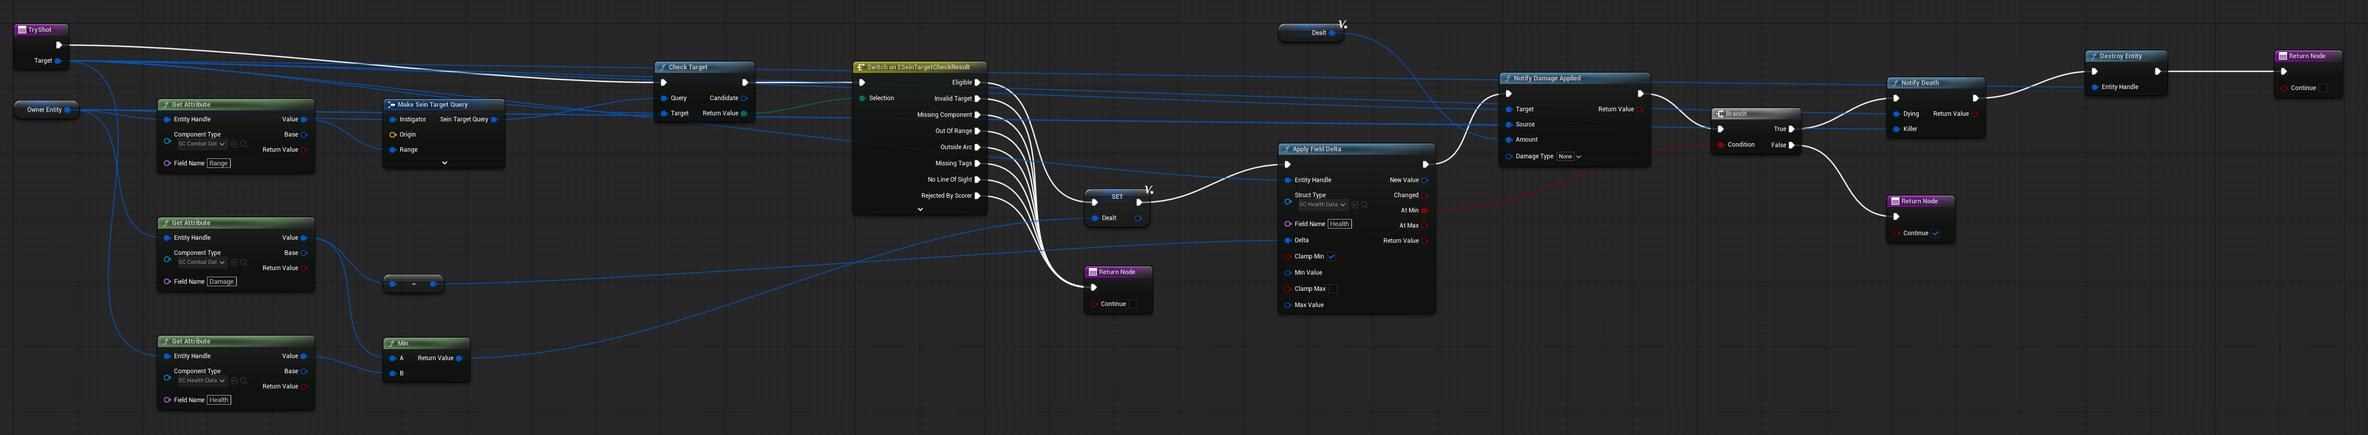
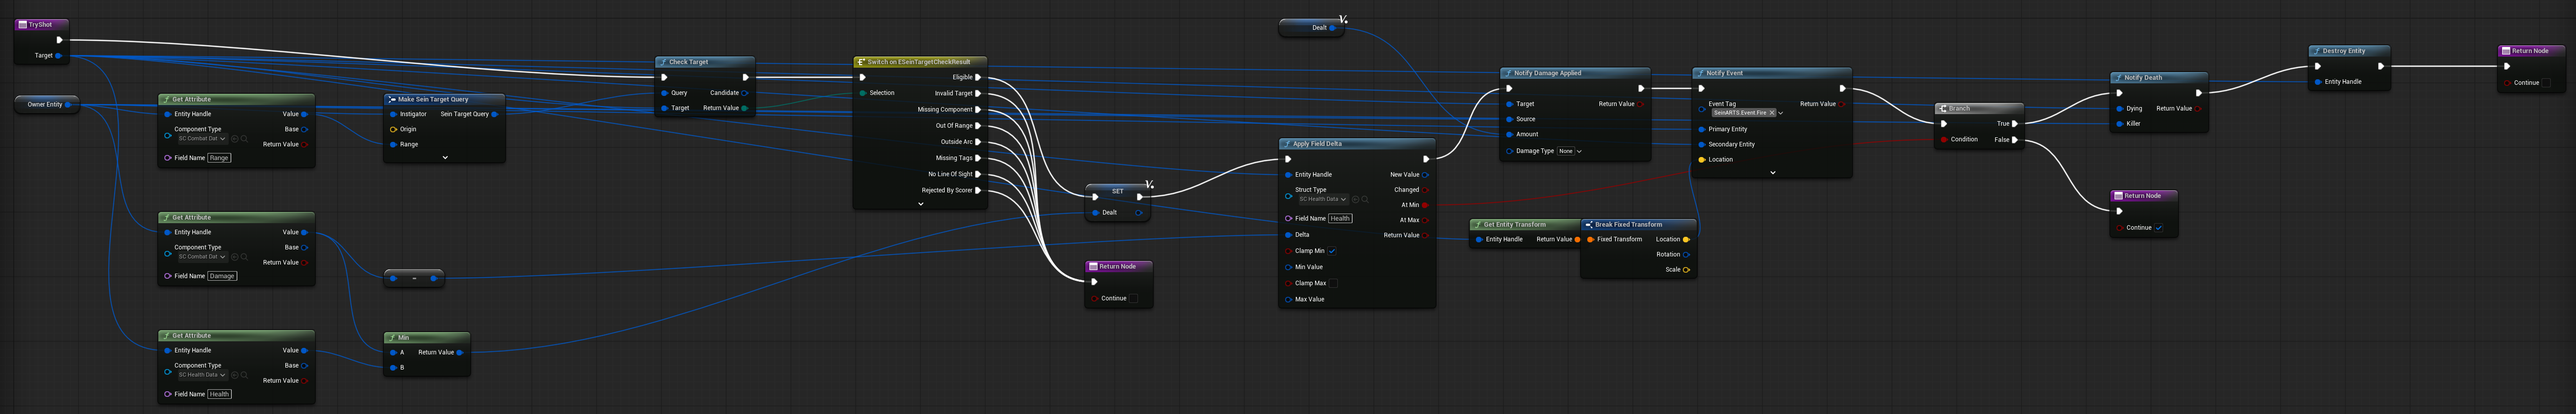
Document the shot effect, minimap move orders and destination markers

diff --git a/src/content/docs/guides/adding-combat.md b/src/content/docs/guides/adding-combat.md
@@ -1,6 +1,6 @@
 ---
 title: Add Combat
-description: Author health and weapon data as Sein components, an Attack order with a fixed-time firing loop, and a passive Auto-Attack.
+description: Author health and weapon data as Sein components, an Attack order with a fixed-time firing loop, a passive Auto-Attack, and a muzzle flash and tracer for every shot.
 ---
 
 ![Three Soldiers trading fire with an attacking group; the health bars and the Truck come from later chapters.](../../../assets/guides/adding-combat/combat-header.png)
@@ -44,12 +44,12 @@ Add a function `TryShot` with an input `Target` (Sein Entity Handle) and a Boole
 
 1. Read the owner's weapon with **Get Attribute** (Entity **Owner Entity**, Component Type `SC_CombatData`, Field `Damage`, and again for `Range`). Get Attribute reads the field's effective value, after any upgrades.
 2. **Make Sein Target Query**: Instigator **Owner Entity**, Range from `Range`, Required Component `SC_HealthData`. **Check Target** with the query and `Target`, then **Switch on ESeinTargetCheckResult**. Every result but **Eligible** returns `Continue` false.
-3. On Eligible: add a local Fixed Point variable `Dealt` and set it to the **Min** of Damage and the target's `Health`, the damage this shot actually deals. Then **Apply Field Delta** on the target's `SC_HealthData` field `Health` with Delta **Negate** Damage and **Clamp Min** on, and after it **Notify Damage Applied** (Target, Source **Owner Entity**, Amount `Dealt`). `Dealt` is read before the write, so a killing shot still reports the health it took.
+3. On Eligible: add a local Fixed Point variable `Dealt` and set it to the **Min** of Damage and the target's `Health`, the damage this shot actually deals. Then **Apply Field Delta** on the target's `SC_HealthData` field `Health` with Delta **Negate** Damage and **Clamp Min** on, and after it **Notify Damage Applied** (Target, Source **Owner Entity**, Amount `Dealt`). `Dealt` is read before the write, so a killing shot still reports the health it took. Then **Notify Event**: Event Tag `SeinARTS.Event.Fire` (add the tag when prompted), Primary Entity **Owner Entity**, Secondary Entity `Target`; expand the node's advanced pins and set Location to the Location of **Get Entity Transform** on `Target` (**Break Fixed Transform**).
 4. If **At Min**, the target is dead: **Notify Death** (Dying the target, Killer the owner), **Destroy Entity** on the target, and return false. Otherwise return true.
 
 ![SA_Attack's TryShot.](../../../assets/guides/adding-combat/tryshot-graph.png)
 
-Apply Field Delta writes simulation state, so every player's simulation applies the same hit. The two Notify nodes only tell presentation what happened, for hit effects and death animations.
+Apply Field Delta writes simulation state, so every player's simulation applies the same hit. The Notify nodes only tell presentation what happened: the hit, the shot and the death. Notify Event carries a game-defined event, here `SeinARTS.Event.Fire`, to the Primary Entity's actor; section 4 turns it into a visible shot.
 
 ### The firing loop
 
@@ -89,7 +89,46 @@ Override **On Tick**:
 
 Find Targets returns the nearest eligible entities first. The default scorer skips only entities the unit's own player owns, and Required Component skips anything without health, such as mineral rocks. In a game with allied players, set the query's **Scorer Class** to a target scorer that also skips allies, or Auto-Attack fires on them.
 
-## 4. Grant and map
+## 4. Show the shot
+
+Each shot now sends `SeinARTS.Event.Fire` with the shooter, the target and the target's position. The shooter's actor turns it into a muzzle flash and a tracer.
+
+### The effect
+
+Create the folder `Content/Demo/Art/Effects`. Right-click it and choose **FX > Niagara System**. In **Create Niagara System**, pick the **Static Beam** emitter under **Templates**, create the system and name it `NS_RifleShot`. Open it, right-click the System Overview, choose **Add Emitter** and add **Simple Sprite Burst**. Rename the two emitters `Tracer` and `MuzzleFlash`.
+
+In the **User Parameters** panel, add a **Vector** parameter named `BeamEnd`: the world position the tracer ends at. Then set:
+
+| Emitter | Module | Input | Value |
+| --- | --- | --- | --- |
+| Tracer | Emitter State | Loop Behavior | Once |
+| Tracer | Emitter State | Loop Duration | `0.1` |
+| Tracer | Beam Emitter Setup | Beam End | `User.BeamEnd`, from **Link Input** in the input's dropdown |
+| Tracer | Beam Emitter Setup | Absolute Beam End | On |
+| Tracer | Spawn Burst Instantaneous | Spawn Count | `20` |
+| Tracer | Initialize Particle | Lifetime | `0.08` |
+| Tracer | Beam Width | Beam Width | `3` (reset the input with its arrow first, which replaces the template's curve with a plain value) |
+| Tracer | Color | Color | R `6`, G `4`, B `1.5`, A `1` |
+| MuzzleFlash | Emitter State | Loop Duration | `0.1` |
+| MuzzleFlash | Initialize Particle | Lifetime | `0.06` |
+| MuzzleFlash | Initialize Particle | Color | R `10`, G `7`, B `3`, A `1` |
+| MuzzleFlash | Initialize Particle | Uniform Sprite Size | `35` |
+
+The beam starts where the system is spawned and ends at `BeamEnd`; both emitters play once and the system finishes after a tenth of a second. Colour values above 1 glow.
+
+### Play it on the Soldier
+
+In `SU_Soldier`, select **SeinARTS Entity Bridge** in the Components panel and, under **Events** in its Details, click **+** next to **On Visual Event**. The bridge raises it for every visual event on the Soldier's entity, and Notify Event sends `SeinARTS.Event.Fire` to the shooter. From the event:
+
+1. **Break Sein Visual Event**, and **Branch** on its Tag **==** `SeinARTS.Event.Fire`.
+2. True: **Spawn System Attached**: System Template `NS_RifleShot`, Attach to Component **Default Scene Root**, Location the muzzle, Location Type **Keep World Position**, Auto Destroy on. For the muzzle, **Transform Location** of the `Rifle`'s **Get World Transform** with Location `(380, 0, 10)`: the barrel's tip in the demo's rifle model; use your model's.
+3. **Set Niagara Variable (Vector3)** on the spawned component: In Variable Name `BeamEnd`, In Value the event's Location through **To Vector**, plus `(0, 0, 90)` to aim at the target's body.
+
+![SU_Soldier's On Visual Event.](../../../assets/guides/adding-combat/fire-effect-graph.png)
+
+The effect is presentation only: each player's machine plays it from the event, and the simulation never reads it. It is attached to the Soldier, so it hides with the Soldier in fog.
+
+## 5. Grant and map
 
 On `SU_Soldier`'s Sein Abilities, add `SA_Attack` and `SA_AutoAttack` to Granted Abilities, and a Default Command:
 
@@ -99,14 +138,15 @@ On `SU_Soldier`'s Sein Abilities, add `SA_Attack` and `SA_AutoAttack` to Granted
 
 Compile and save.
 
-## 5. Test
+## 6. Test
 
-Set the slot 2 start's **Spawn Entity** to `SU_Soldier` as well, and play. Walk your Soldier towards the other start and right-click the enemy Soldier: yours closes to `900` units and fires about every 0.67 seconds until one of them dies, ten hits later. Then order a fresh Soldier near the enemy without targeting it: once it stops, Auto-Attack opens fire.
+Set the slot 2 start's **Spawn Entity** to `SU_Soldier` as well, and play. Walk your Soldier towards the other start and right-click the enemy Soldier: yours closes to `900` units and fires about every 0.67 seconds, each shot a flash at the muzzle and a tracer to the target, until one of them dies, ten hits later. Then order a fresh Soldier near the enemy without targeting it: once it stops, Auto-Attack opens fire.
 
 ## Checkpoint
 
 - `SC_Health` and `SC_Combat` are Fixed Point simulation data on the Soldier.
 - `SA_Attack` checks its target and writes Health with Apply Field Delta on a fixed-time loop.
 - `SA_AutoAttack` fires only while the Soldier has no order.
+- Each shot sends `SeinARTS.Event.Fire`, and the Soldier plays `NS_RifleShot` from its On Visual Event.
 
 Continue with [Add Mineral Income](/guides/adding-mineral-income/).

diff --git a/src/content/docs/guides/building-the-hud.md b/src/content/docs/guides/building-the-hud.md
@@ -104,9 +104,9 @@ Open `HUD_Demo` (the HUD Class on `GM_Demo`). Add a variable `HUDWidget` of type
 
 Keep `HUD_Demo` derived from **Sein HUD**: it draws the selection marquee.
 
-## 8. Health bars and selection rings
+## 8. Health bars, selection rings and destination markers
 
-The HUD covers the screen; two small pieces go on the units themselves.
+The HUD covers the screen; three small pieces go on the units themselves.
 
 **Health bar.** Create `WBP_HealthBar` with parent **Sein Entity Widget** (a Sein User Widget is not required here). Its tree is a Size Box `70 × 7` with a Progress Bar named exactly `ProgressBar`. Override the function **Get Progress Display**: read `Health` and `MaxHealth` with **Get Attribute** on **Bound Entity**, convert with **Fixed To Float**, and return **Make Sein Progress Display** with Visible = `Health < MaxHealth` and Percent = **Safe Divide** (`Health`, `MaxHealth`). The bar appears once a unit is damaged.
 
@@ -118,12 +118,14 @@ Create a Blueprint `BPC_SelectionRing` with parent **Static Mesh Component**: St
 
 Add `BPC_SelectionRing` to `SU_Soldier`, Location Z `3` (just above the ground) and Scale `(1.2, 1.2, 1)`. Later units get one scaled to their footprint. The placement ghost copies only meshes that start visible, so the ring stays off it.
 
+**Destination markers.** With units selected, the framework previews where each would stand if you right-clicked under the cursor: the same formation the order would use, reshaped as you right-drag. A unit draws its marker only if it carries a **SeinARTS Navigation Renderer**. Right-click `M_SelectionRing`, choose **Create Material Instance** and name it `MI_MoveMarker`; set its **Color** to white. Add a **SeinARTS Navigation Renderer** component to `SU_Soldier` with **Marker Material** `MI_MoveMarker`. The default renderer draws the marker on a plane sized to the unit's footprint. Every unit that moves gets one.
+
 ## 9. Test the HUD
 
 Play `LVL_Game`:
 
 1. Minerals reads `500`; with nothing selected, no panels show.
-2. Select the Soldier. The info panel reads Soldier, its description and health, `1 selected`, one banner, a ring under the Soldier, and Move, Stop, Attack and Mine buttons. Auto-Attack is passive and gets none.
+2. Select the Soldier. The info panel reads Soldier, its description and health, `1 selected`, one banner, a ring under the Soldier, and Move, Stop, Attack and Mine buttons. Auto-Attack is passive and gets none. Move the cursor over open ground: a white ring follows it, where the Soldier would stand.
 3. Right-click a rock: the counter climbs by 5 every 1.5 seconds.
 4. Click **Stop**: the Soldier stops mining and stands still.
 
@@ -135,6 +137,6 @@ The production queue stays hidden until a building is selected; the next two cha
 
 - The HUD reads only view models; its buttons issue the same orders as a right-click.
 - Slot widgets are refreshed by their parent, so a hidden slot comes back.
-- Health bars and selection rings sit on the units, not in the HUD.
+- Health bars, selection rings and destination markers sit on the units, not in the HUD.
 
 Continue with [Build Production Buildings](/guides/building-production-buildings/).

diff --git a/src/content/docs/guides/adding-mineral-income.md b/src/content/docs/guides/adding-mineral-income.md
@@ -3,7 +3,7 @@ title: Add Mineral Income
 description: Define the Minerals resource, place neutral mineral rocks, and mine them with a fixed-time ability that grants income.
 ---
 
-![Soldiers mining a mineral rock.](../../../assets/guides/adding-mineral-income/mining-header.png)
+![Soldiers mining a mineral rock by firing at it.](../../../assets/guides/adding-mineral-income/mining-header.png)
 
 Complete [Add Combat](/guides/adding-combat/) first. This chapter adds the demo's one resource, Minerals: each player starts with 500, and a Soldier mining a rock earns 5 every 1.5 seconds until the rock's 1,500 run out.
 
@@ -58,11 +58,11 @@ Add three Fixed Point variables: `MineAmount` `5`, `MineInterval` `1.5` and `Tim
   1. Add `MineInterval` back to `TimeUntilMine`.
   2. The take is the **Min** of `MineAmount` and the rock's `Remaining` (**Get Attribute** on **Target Entity**, `SC_DepositData`, `Remaining`).
   3. **Grant Income** to **Get Entity Owner** of the Owner Entity: **Make Sein Resource Cost** from a **Make Map** of `SeinARTS.Resource.Minerals` → the take.
-  4. **Apply Field Delta** on the rock's `Remaining` by **Negate** of the take, Clamp Min on. If it failed, the rock is gone: **End Ability**. If it succeeded and is **At Min**, **Destroy Entity** on the rock, then End Ability.
+  4. **Apply Field Delta** on the rock's `Remaining` by **Negate** of the take, Clamp Min on. If it failed, the rock is gone: **End Ability**. If it succeeded, fire at the rock: **Notify Event** `SeinARTS.Event.Fire` as in `TryShot`, with the Owner Entity as Primary Entity and the Target Entity as Secondary Entity and as the source of Location. Then, if **At Min**, **Destroy Entity** on the rock and End Ability.
 
 ![SA_Mine's Event Graph.](../../../assets/guides/adding-mineral-income/mine-graph.png)
 
-Income goes to the player who owns the miner. Resources are simulation state, so every player sees the same balance.
+Income goes to the player who owns the miner. Resources are simulation state, so every player sees the same balance. The Fire event plays the Soldier's shot from [Add Combat](/guides/adding-combat/): Soldiers mine by shooting the rock.
 
 ## 4. Grant and map
 
@@ -76,12 +76,12 @@ Compile and save.
 
 ## 5. Test
 
-Play, select your Soldier and right-click a rock by your start. It walks over and mines, swinging every 1.5 seconds. The Minerals counter arrives with the HUD; until then, `Sein.Commands.ShowLog` shows the Mine order, and the rock vanishes after its last Mineral.
+Play, select your Soldier and right-click a rock by your start. It walks over and fires at the rock every 1.5 seconds. The Minerals counter arrives with the HUD; until then, `Sein.Commands.ShowLog` shows the Mine order, and the rock vanishes after its last Mineral.
 
 ## Checkpoint
 
 - `SeinARTS.Resource.Minerals` is in the Resource Catalog, so every player starts with 500.
 - `SBP_MineralRock` is a neutral entity with `SC_Deposit`.
-- `SA_Mine` grants income on a fixed interval and removes an empty rock.
+- `SA_Mine` grants income on a fixed interval, fires at the rock, and removes an empty rock.
 
 Continue with [Build the HUD](/guides/building-the-hud/).

diff --git a/src/content/docs/guides/adding-fog-and-a-minimap.md b/src/content/docs/guides/adding-fog-and-a-minimap.md
@@ -1,6 +1,6 @@
 ---
 title: Add Fog and a Minimap
-description: Darken what the local player cannot see, and draw a minimap with fog, unit markers, the camera's view and click-to-move-camera.
+description: Darken what the local player cannot see, and draw a minimap with fog, unit markers and the camera's view; click it to move the camera, right-click it to move units.
 ---
 
 ![Fog of war around the starting base, with the minimap in the corner.](../../../assets/guides/adding-fog-and-a-minimap/fog-header.png)
@@ -83,14 +83,17 @@ Return after the loop. Because On Paint draws inside the widget, the markers tur
 
 ![The minimap's On Paint function.](../../../assets/guides/adding-fog-and-a-minimap/minimap-paint-graph.png)
 
-## 6. Click to move the camera
+## 6. Clicks: camera and orders
 
 Override **On Mouse Button Down**:
 
 1. **Minimap Local To World**: Local Pos = **Absolute to Local** of the event's Geometry and the pointer's **Get Screen Space Position**; Widget Size = the Geometry's **Get Local Size**; the view model's World Bounds Min, World Bounds Max and Ground Z; Map Rotation Deg `0` (the widget's own transform is already in its local space); Circle Clip off.
 2. Branch on its result AND **Is Mouse Button Down** (Left Mouse Button).
 3. True: **Get Owning Player Pawn**, cast to **Sein Camera Pawn**, **Focus on World Point** with Out World, and return **Handled**.
-4. Otherwise return **Unhandled**.
+4. False: Branch on the same result AND **Is Mouse Button Down** (Right Mouse Button). True: **Get Owning Player**, cast to **Sein Player Controller**, **Issue Smart Command** with World Location = Out World and no Target Actor, and return **Handled**.
+5. Otherwise, and when a cast fails, return **Unhandled**.
+
+Issue Smart Command sends the order a right-click on empty ground sends: each selected unit runs its Default Command for that context, so Soldiers and the Truck move there.
 
 ## 7. Add it to the HUD
 
@@ -104,11 +107,12 @@ Play `LVL_Game`:
 - Your units are green, mineral rocks yellow, enemy units red only while seen.
 - Fog on the map matches fog in the world, including dimmed explored ground.
 - Click the minimap: the camera jumps there. Rotate the camera with Q and E: the map turns with it.
+- Select your Soldiers and right-click the minimap: they walk to that spot, and the camera stays put.
 
 ## Checkpoint
 
 - Fog is drawn from the local player's vision, after tonemapping.
 - The minimap draws markers in On Paint, without a widget per unit.
-- A minimap click moves only the local camera; it never orders units.
+- A left click moves only the local camera; a right click orders the selection there, like a right click on the ground.
 
 Continue with [Add Victory, Defeat and an AI](/guides/adding-victory-defeat-and-ai/).

diff --git a/src/content/docs/guides/adding-the-truck.md b/src/content/docs/guides/adding-the-truck.md
@@ -62,6 +62,7 @@ Create a Sein entity Blueprint `SU_Truck` in `Content/Demo/Units`. Add a Static 
 | Sein Producible | Build Time `10` |
 | `HealthBar` (Sein Entity Widget) | As on the Soldier, Location Z `330` |
 | `BPC_SelectionRing` | Location Z `3`, Scale `(4, 4, 1)` |
+| SeinARTS Navigation Renderer | Marker Material `MI_MoveMarker` |
 
 Turn Rate still caps how fast any movement mode can turn the Truck, in radians per second. The steering turns at most Speed ÷ `TurnRadius`, about `1.7`, so a cap of `10` never binds and the mode's own variables decide how it turns.
 
